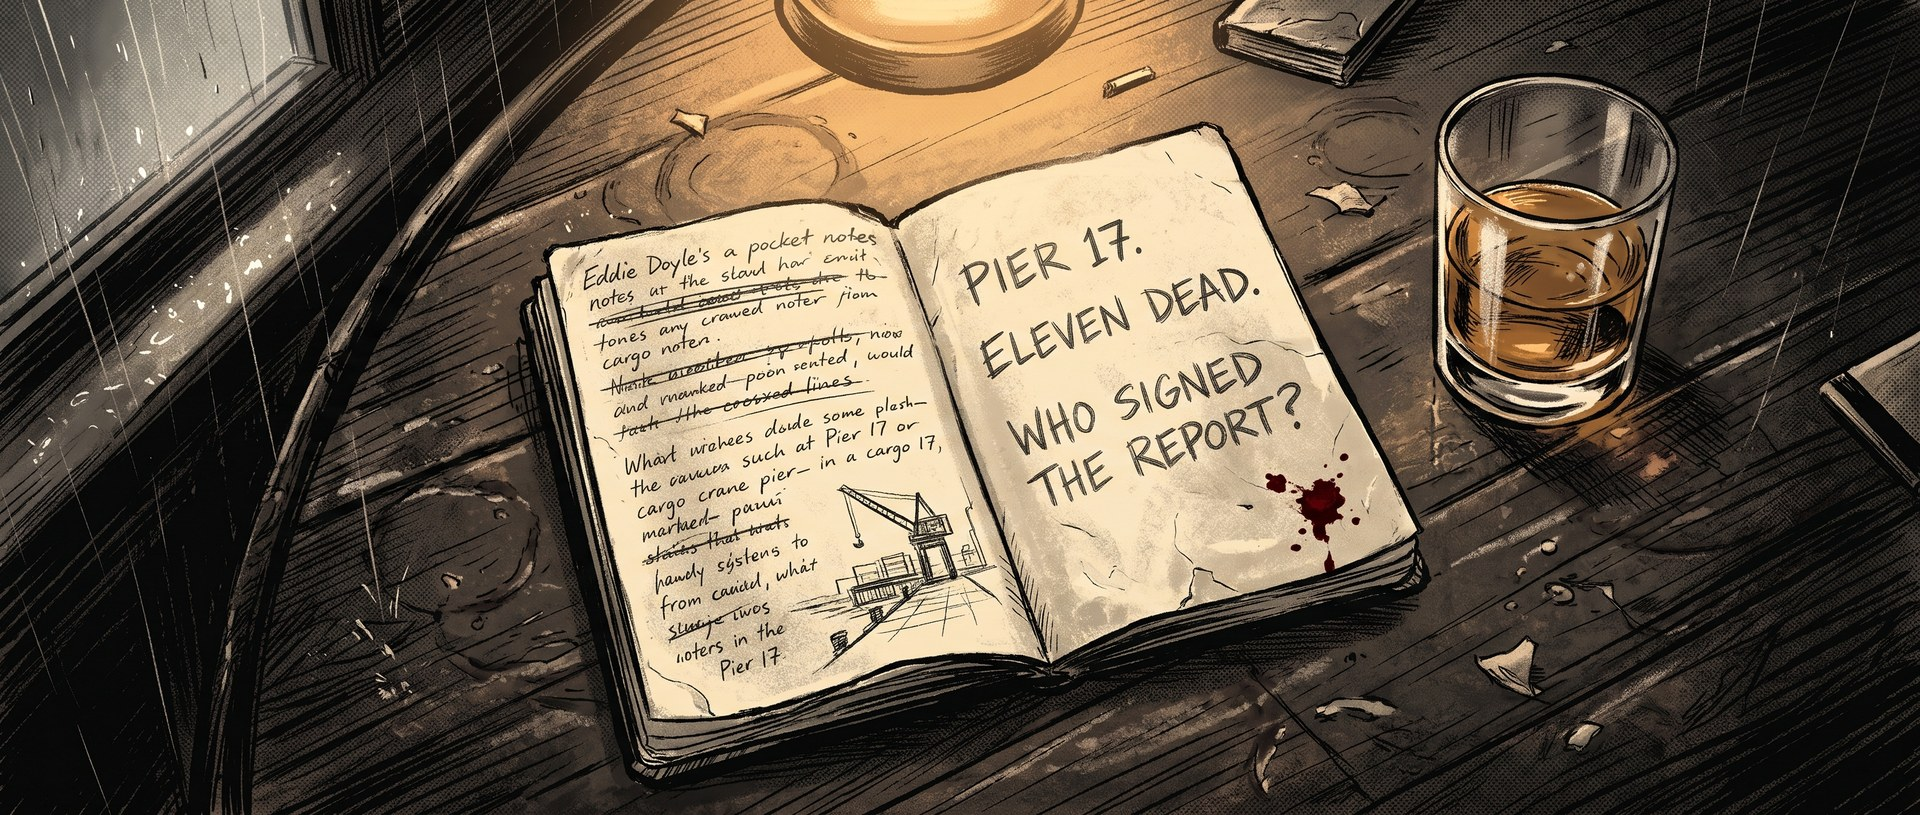
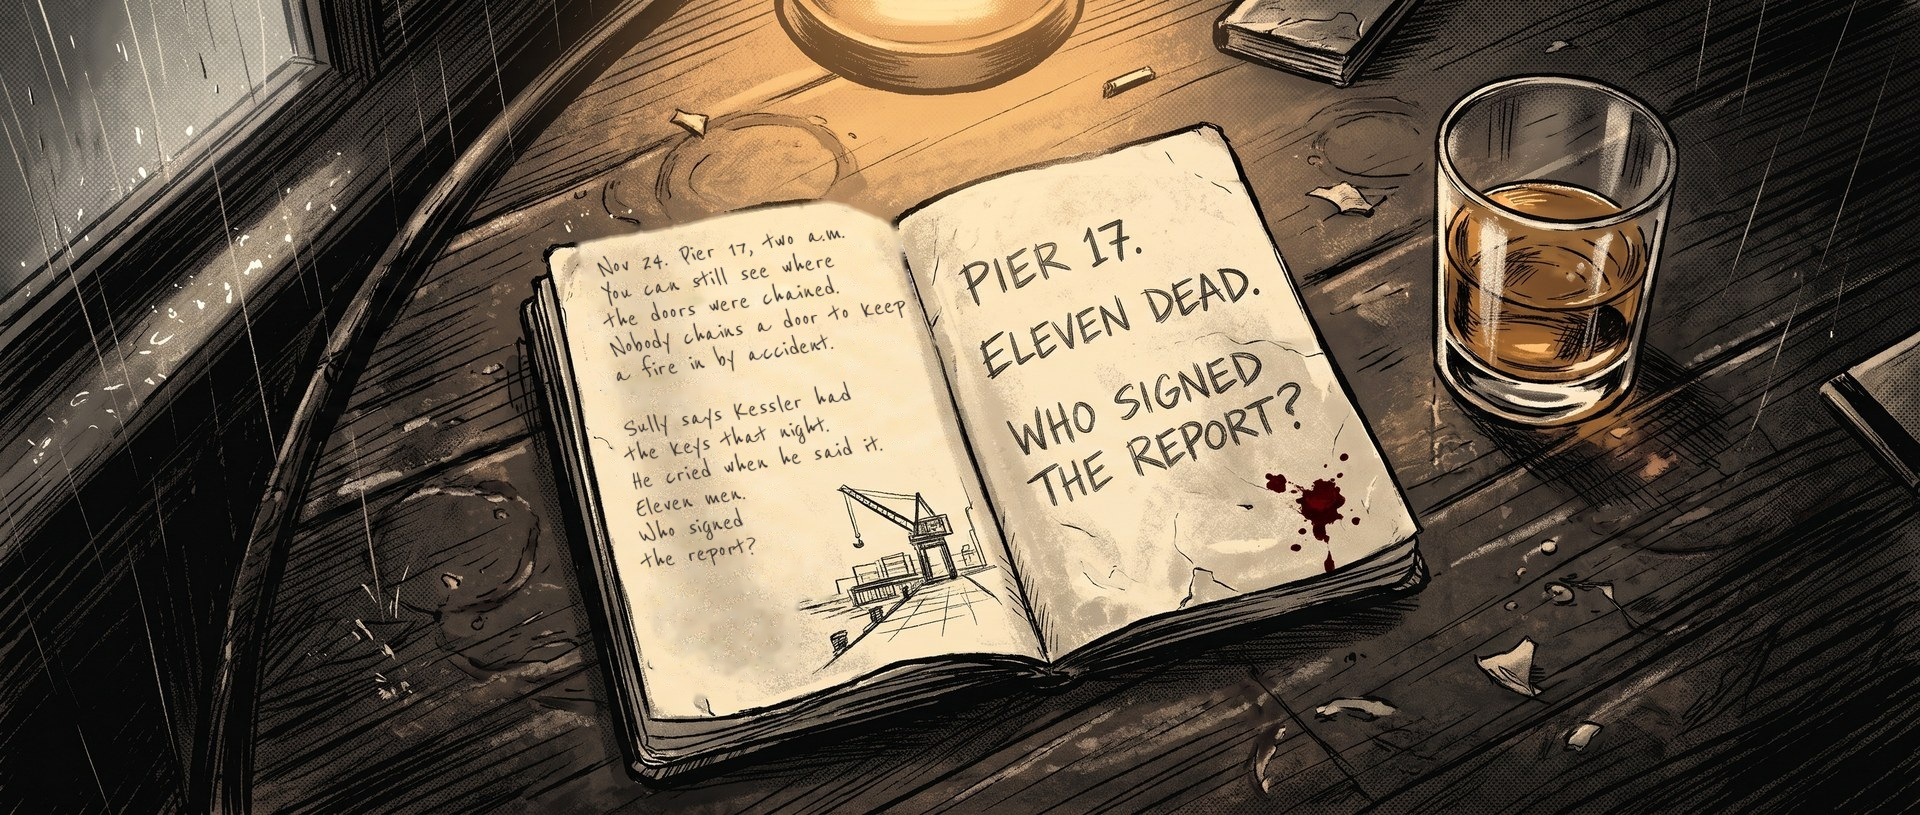
Art audit: redraw dream panel (hands only through gaps), real text on notebook, report, map, posters, crate
Claude-Session: https://claude.ai/code/session_01C3g9eatrmPMSywcp5HyC7Q

Changed region(s): [[0.2812, 0.2454, 0.5, 0.8589]]

diff --git a/gen/fix_cut_text.py b/gen/fix_cut_text.py
@@ -1,0 +1,101 @@
+"""Replace AI glyph soup in cutscene panels with real words, drawn in the panel's own hand.
+Each fix: a polygon on the picture where the fake lettering is wiped (dark strokes inpainted from the
+paper round them), then real lines laid in at an angle, in a font that fits (Eddie's hand, a typewriter).
+usage: fix_cut_text.py <original.jpg> <out.jpg> <panel id>"""
+import sys
+import cv2
+import numpy as np
+from PIL import Image, ImageDraw, ImageFont, ImageFilter
+
+FIXES = {
+	"59": [   # Eddie's notebook, left page: what he really wrote that night
+		{"wipe": [(572, 232), (888, 190), (950, 445), (952, 474), (832, 478), (832, 600), (800, 668), (660, 712)],
+			"keep": [(832, 476, 1000, 680), (800, 600, 832, 690)],
+			"font": "fonts/ReenieBeanie.ttf", "size": 30, "ink": (48, 40, 36), "angle": -8.8, "at": (596, 254), "lead": 27,
+			"lines": ["Nov 24. Pier 17, two a.m.", "You can still see where", "the doors were chained.", "Nobody chains a door to keep",
+				"a fire in by accident.", "", "Sully says Kessler had", "the keys that night.", "He cried when he said it.",
+				"Eleven men.", "Who signed", "the report?"]},
+	],
+	"64": [   # the 1939 report Frank signed
+		{"wipe": [(893, 389), (1148, 415), (1142, 460), (1088, 470), (1085, 558), (866, 548), (870, 430), (893, 428)],
+			"font": "fonts/SpecialElite.ttf", "size": 9, "ink": (44, 38, 32), "angle": 6.6, "at": (921, 394), "lead": 12,
+			"lines": ["At 2:10 A.M., Aug. 14, 1939, fire broke", "out in Warehouse 17, West St. Eleven", "longshoremen were found inside after",
+				"the fire was put out. Cause determined", "to be faulty wiring. Doors found", "unsecured. No sign of foul play.", "",
+				"No further action recommended.", "Reported by the undersigned,", "23rd Precinct. Witnesses: none."]},
+		{"wipe": [(1079, 353), (1133, 357), (1132, 375), (1078, 371)],
+			"font": "fonts/SpecialElite.ttf", "size": 8, "ink": (44, 38, 32), "angle": 5.0, "at": (1092, 358), "lead": 10,
+			"lines": ["Aug. 14,"]},
+	],
+	"65": [   # wall map and the report in Briggs's hand
+		{"wipe": [(1553, 158), (1640, 158), (1640, 222), (1553, 222)], "font": "fonts/SpecialElite.ttf", "size": 11, "ink": (60, 50, 40), "angle": -14.0, "at": (1562, 180), "lead": 12, "lines": ["BROOKLYN"]},
+		{"wipe": [(1478, 262), (1558, 262), (1558, 298), (1478, 298)], "font": "fonts/SpecialElite.ttf", "size": 10, "ink": (60, 50, 40), "angle": 8.0, "at": (1484, 270), "lead": 12, "lines": ["UPPER BAY"]},
+		{"wipe": [(1536, 40), (1634, 40), (1634, 85), (1536, 85)], "font": "fonts/SpecialElite.ttf", "size": 9, "ink": (60, 50, 40), "angle": -6.0, "at": (1542, 62), "lead": 12, "lines": ["QUEENS"]},
+		{"wipe": [(1508, 158), (1572, 158), (1572, 188), (1508, 188)], "lines": []},
+		{"wipe": [(1021, 400), (1090, 381), (1101, 419), (1035, 437)], "font": "fonts/Oswald.ttf", "size": 12, "ink": (40, 34, 28), "angle": -16.0, "base": (1029, 412), "lead": 12, "lines": ["PIER 17 - 1939"], "rule": 3},
+		{"wipe": [], "font": "fonts/Oswald.ttf", "size": 9, "ink": (40, 34, 28), "angle": -16.0, "base": (1042, 431), "lead": 12, "lines": ["CAUSE: ACCIDENTAL"]},
+	],
+	"56": [   # club posters
+		{"wipe": [(230, 250), (292, 250), (292, 278), (230, 278)], "font": "fonts/Oswald.ttf", "size": 15, "ink": (30, 26, 24), "angle": -3.0, "at": (234, 254), "lead": 16, "lines": ["CABARET"]},
+		{"wipe": [(266, 338), (302, 338), (302, 362), (266, 362)], "font": "fonts/Oswald.ttf", "size": 11, "ink": (30, 26, 24), "angle": -3.0, "at": (270, 342), "lead": 12, "lines": ["9 P.M."]},
+		{"wipe": [(4, 336), (72, 336), (72, 357), (4, 357)], "font": "fonts/Oswald.ttf", "size": 10, "ink": (30, 26, 24), "angle": 0.0, "at": (8, 339), "lead": 12, "lines": ["EVERY NIGHT"]},
+		{"wipe": [(1593, 268), (1655, 268), (1655, 291), (1593, 291)], "font": "fonts/Oswald.ttf", "size": 15, "ink": (30, 26, 24), "angle": -2.0, "at": (1598, 271), "lead": 16, "lines": ["JENNY"]},
+		{"wipe": [(1600, 358), (1660, 358), (1660, 378), (1600, 378)], "font": "fonts/Oswald.ttf", "size": 10, "ink": (30, 26, 24), "angle": -2.0, "at": (1606, 362), "lead": 12, "lines": ["LIVE"]},
+	],
+	"61": [   # crate stencil
+		{"wipe": [], "clone": ((372, 524, 452, 580), 58), "font": "fonts/Oswald.ttf", "size": 20, "ink": (24, 20, 18), "angle": 0.0, "at": (381, 526), "lead": 22, "lines": ["PIER 17"]},
+		{"wipe": [], "clone": ((372, 560, 452, 590), -30), "lines": []},
+	],
+}
+
+
+def wipe(img, poly, keep):
+	if not poly:
+		return img
+	h, w = img.shape[:2]
+	area = np.zeros((h, w), np.uint8)
+	cv2.fillPoly(area, [np.array(poly, np.int32)], 255)
+	if not poly:
+		return img
+	for x0, y0, x1, y1 in keep:
+		area[y0:y1, x0:x1] = 0
+	gray = cv2.cvtColor(img, cv2.COLOR_RGB2GRAY)
+	paper = cv2.medianBlur(gray, 21)
+	strokes = ((paper.astype(int) - gray.astype(int)) > 18).astype(np.uint8) * 255
+	strokes = cv2.dilate(strokes, np.ones((3, 3), np.uint8), iterations=2) & area
+	return cv2.inpaint(img, strokes, 5, cv2.INPAINT_TELEA)
+
+
+def write(pic, fx):
+	font = ImageFont.truetype(fx["font"], fx["size"])
+	layer = Image.new("L", (900, 900), 0)
+	d = ImageDraw.Draw(layer)
+	anchor = "ls" if "base" in fx else "la"
+	if "base" in fx:
+		fx = dict(fx, at=fx["base"])
+	for i, line in enumerate(fx["lines"]):
+		d.text((100, 100 + i * fx["lead"]), line, font=font, fill=235, anchor=anchor)
+		if fx.get("rule"):
+			w = d.textlength(line, font=font)
+			d.line([(100, 100 + fx["rule"]), (100 + w, 100 + fx["rule"])], fill=235, width=1)
+	layer = layer.rotate(-fx["angle"], resample=Image.BICUBIC, center=(100, 100))
+	layer = layer.filter(ImageFilter.GaussianBlur(0.35))
+	ink = Image.new("RGB", layer.size, fx["ink"])
+	pic.paste(ink, (fx["at"][0] - 100, fx["at"][1] - 100), layer)
+
+
+src, out, pid = sys.argv[1], sys.argv[2], sys.argv[3]
+img = np.asarray(Image.open(src).convert("RGB")).copy()
+for fx in FIXES[pid]:
+	img = wipe(img, fx["wipe"], fx.get("keep", []))
+pic = Image.fromarray(img)
+for fx in FIXES[pid]:   # wood keeps its grain better copied from the same board than inpainted
+	if "clone" in fx:
+		(x0, y0, x1, y1), dy = fx["clone"]
+		patch = pic.crop((x0, y0 + dy, x1, y1 + dy))
+		m = Image.new("L", patch.size, 0)
+		ImageDraw.Draw(m).rectangle((4, 4, patch.width - 5, patch.height - 5), fill=255)
+		pic.paste(patch, (x0, y0), m.filter(ImageFilter.GaussianBlur(3)))
+for fx in FIXES[pid]:
+	if fx.get("lines"):
+		write(pic, fx)
+pic.save(out, quality=94)
